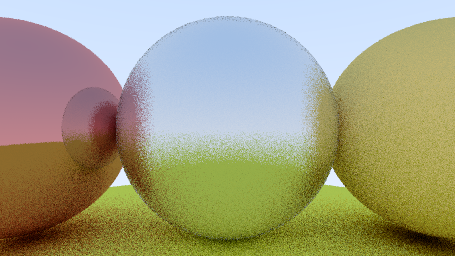
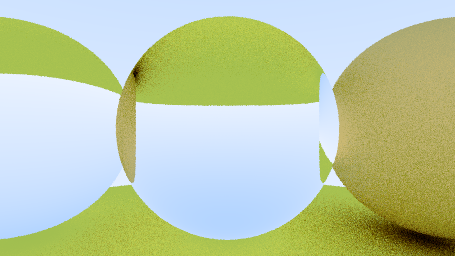
full reflect

diff --git a/src/lib.rs b/src/lib.rs
@@ -53,8 +53,8 @@ pub struct RenderOption {
 impl World {
     pub fn new() -> World {
         let material_ground = Rc::new(Lambertian { color: V3(0.8, 0.8, 0.1) });
-        let material_left = Rc::new(Metal { color: V3(0.7, 0.3, 0.3), fuzz: 0.01 });
-        let material_center = Rc::new(Metal { color: V3(0.8, 0.8, 0.8), fuzz: 0.3 });
+        let material_left = Rc::new(Glass { ir: 2.0 });
+        let material_center = Rc::new(Glass { ir: 10.0 });
         let material_right = Rc::new(Lambertian { color: V3(0.8, 0.6, 0.2) });
 
         let geom_ground = Box::new(Sphere {
@@ -117,8 +117,8 @@ impl World {
         let ray_to = camera.center
             + camera.roll * camera.width * 0.5 * (x - 0.5)
             + roll_y * camera.height * 0.5 * (y - 0.5);
-        let ray_way = (ray_to - ray_pos).norm();
-        let ray = Ray { pos: ray_pos, way: ray_way };
+        let ray_way = ray_to - ray_pos;
+        let ray = Ray { pos: ray_pos, way: ray_way.norm() };
         self.ray_color(ray, depth)
     }
     fn ray_color(&self, ray: Ray, depth: usize) -> Color {
@@ -267,5 +267,26 @@ impl Material for Metal {
         let way = reflect + rand_hemisphere(reflect) * self.fuzz;
         let ray = Ray { pos: hit.pos, way: way.norm() };
         (self.color, Some(ray))
+    }
+}
+
+#[derive(Debug, Clone, Copy)]
+struct Glass {
+    ir: f64,
+}
+
+impl Material for Glass {
+    fn scatter(&self, ray: Ray, hit: &HitRecord) -> (Color, Option<Ray>) {
+        let ref_ratio = if hit.front_face { 1. / self.ir } else { self.ir };
+        let cos = -ray.way.dot(hit.normal);
+        let sin = (1. - cos * cos).sqrt();
+        let cannot_refracted = ref_ratio * sin > 1.;
+        let way = if cannot_refracted {
+            ray.way.reflect(hit.normal)
+        } else {
+            ray.way.refract(hit.normal, ref_ratio)
+        };
+        let ray = Ray { pos: hit.pos, way: way.norm() };
+        (V3(1., 1., 1.), Some(ray))
     }
 }

diff --git a/src/v3.rs b/src/v3.rs
@@ -81,4 +81,10 @@ impl V3 {
     pub fn reflect(self, normal: V3) -> V3 {
         self - normal * self.dot(normal) * 2.
     }
+    pub fn refract(self, normal: V3, etai: f64) -> V3 {
+        let cos = -self.dot(normal);
+        let prep = (self + normal * cos) * etai;
+        let para = -normal * (1. - prep.sq_len()).sqrt();
+        prep + para
+    }
 }
